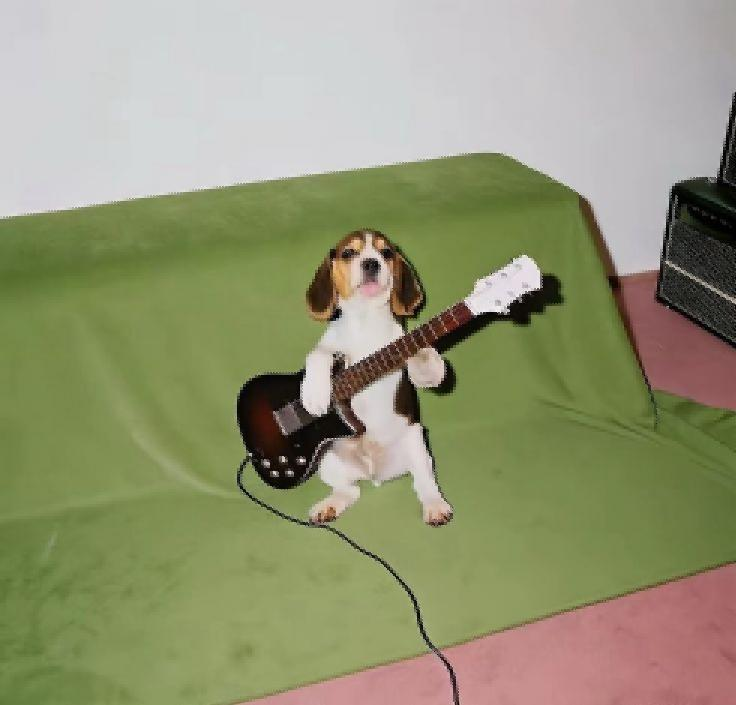
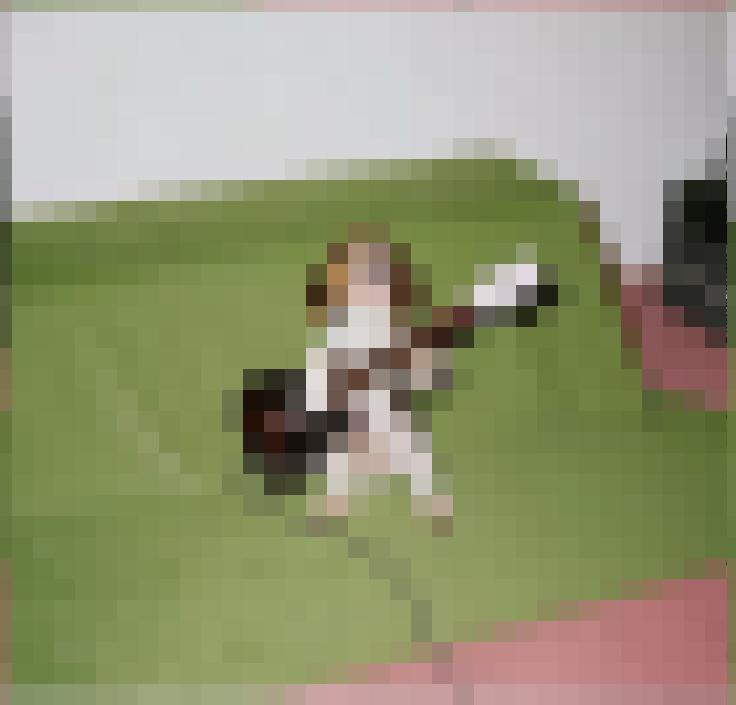
updated it to a k x k pixelate filter

diff --git a/main.py b/main.py
@@ -8,18 +8,29 @@ from PIL import Image
 def main():
     image_path = "dog-guitar.jpg"
     width, height = Image.open(image_path).size
+    k = 21
+    if k > width // 9 or k > height // 9 or k % 2 == 0:
+        print("Error: k is too large for the image dimensions OR k is not odd.")
+        return
+
     pixel_matrix = get_2d_array(image_path)
-    loop_through_pixels(pixel_matrix, width, height)
+    loop_through_pixels(pixel_matrix, width, height, k)
     pixel_array = [pixel for row in pixel_matrix for pixel in row]
     new_img = Image.new("RGB", (width, height))
     new_img.putdata(pixel_array)
     new_img.save("output_image.jpg")
 
 
-def loop_through_pixels(pixel_matrix, width, height):
-    neighbors = [(-1, -1), (-1, 0), (1, 1), (0, -1), (0, 0), (0, 1), (1, -1), (1, 0), (1, 1)]
-    for i in range(1, height - 2, 9):
-        for j in range(1, width - 2, 9):
+def loop_through_pixels(pixel_matrix, width, height, k):
+    neighbors = []
+    half = k // 2
+
+    for m in range(0 - half , half + 1):
+        for n in range(0 - half , half + 1):
+            neighbors.append((m, n))
+
+    for i in range(1, height - 3, k):
+        for j in range(1, width - 3, k):
             r_total, g_total, b_total = 0, 0, 0
             count = 0
             for dx, dy in neighbors:
